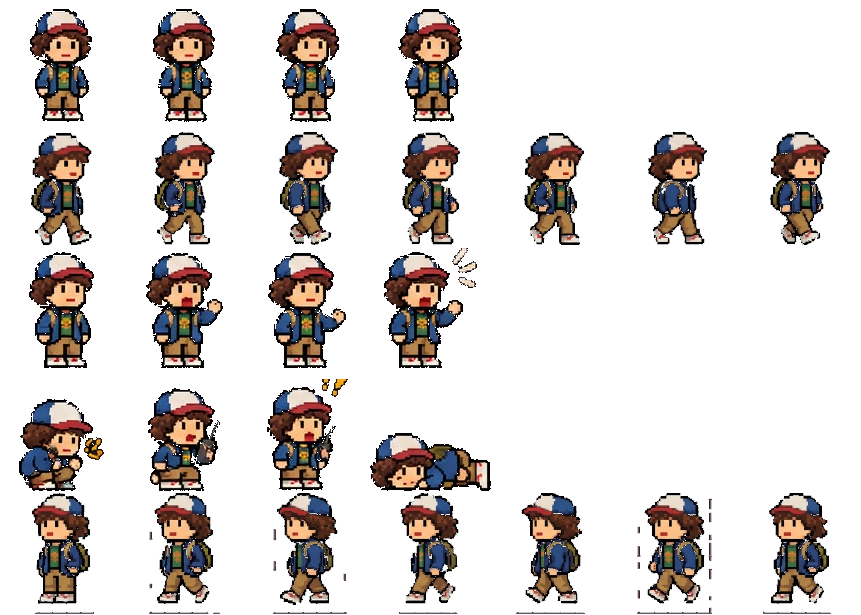
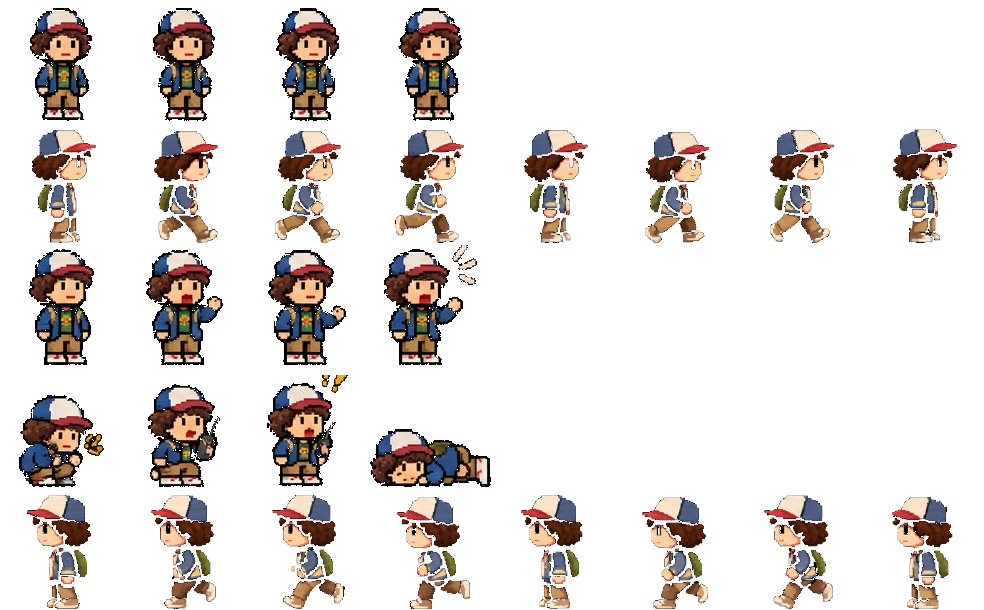
Animaciones de andar nuevas (will1, steve1, mike1, eleven1, dustin1, demo1) y menu sin recuadro negro

diff --git a/js/atlas.js b/js/atlas.js
@@ -10,7 +10,7 @@ window.ATLAS = {
    },
    "walk": {
     "row": 1,
-    "n": 6
+    "n": 8
    },
    "shoot": {
     "row": 2,
@@ -22,7 +22,7 @@ window.ATLAS = {
    },
    "walkL": {
     "row": 4,
-    "n": 6
+    "n": 8
    }
   }
  },
@@ -37,7 +37,7 @@ window.ATLAS = {
    },
    "walk": {
     "row": 1,
-    "n": 6
+    "n": 8
    },
    "attack": {
     "row": 2,
@@ -54,6 +54,10 @@ window.ATLAS = {
    "die": {
     "row": 5,
     "n": 5
+   },
+   "walkL": {
+    "row": 6,
+    "n": 8
    }
   }
  },
@@ -68,7 +72,7 @@ window.ATLAS = {
    },
    "walk": {
     "row": 1,
-    "n": 7
+    "n": 8
    },
    "power": {
     "row": 2,
@@ -80,7 +84,7 @@ window.ATLAS = {
    },
    "walkL": {
     "row": 4,
-    "n": 7
+    "n": 8
    }
   }
  },
@@ -95,7 +99,7 @@ window.ATLAS = {
    },
    "walk": {
     "row": 1,
-    "n": 7
+    "n": 8
    },
    "talk": {
     "row": 2,
@@ -107,14 +111,14 @@ window.ATLAS = {
    },
    "walkL": {
     "row": 4,
-    "n": 7
+    "n": 8
    }
   }
  },
  "dustin": {
   "img": "assets/dustin.png",
   "cw": 123,
-  "ch": 123,
+  "ch": 122,
   "anims": {
    "idle": {
     "row": 0,
@@ -122,7 +126,7 @@ window.ATLAS = {
    },
    "walk": {
     "row": 1,
-    "n": 7
+    "n": 8
    },
    "talk": {
     "row": 2,
@@ -134,7 +138,7 @@ window.ATLAS = {
    },
    "walkL": {
     "row": 4,
-    "n": 7
+    "n": 8
    }
   }
  },
@@ -149,11 +153,11 @@ window.ATLAS = {
    },
    "walk": {
     "row": 1,
-    "n": 6
+    "n": 8
    },
    "run": {
     "row": 2,
-    "n": 6
+    "n": 8
    },
    "attack": {
     "row": 3,
@@ -169,11 +173,11 @@ window.ATLAS = {
    },
    "walkL": {
     "row": 6,
-    "n": 6
+    "n": 8
    },
    "runL": {
     "row": 7,
-    "n": 6
+    "n": 8
    }
   }
  },

diff --git a/js/game.js b/js/game.js
@@ -1150,7 +1150,9 @@ function drawEnemy(e, camX) {
   // sombra
   ctx.fillStyle = 'rgba(0,0,0,.35)'; ctx.beginPath(); ctx.ellipse(x, (e.grounded ? e.y : GROUND) + 2, 30 * e.sc / 1.1, 6, 0, 0, 7); ctx.fill();
   if (!e.grounded) { anim = 'attack'; f = e.vy < 0 ? 1 : 2; }
-  sprite('demogorgon', anim, f, x, e.y, e.sc, flip, blink);
+  // al ir a la izquierda se usa la fila "Walk ←" de la hoja
+  if (flip && ATLAS.demogorgon.anims[anim + 'L']) sprite('demogorgon', anim + 'L', f, x, e.y, e.sc, false, blink);
+  else sprite('demogorgon', anim, f, x, e.y, e.sc, flip, blink);
 }
 
 // Armas de la serie. En reposo van colgadas del cuerpo (se dibujan detrás o encima del sprite, en el punto de cada personaje);
@@ -1494,8 +1496,6 @@ function drawMenuScreen() {
 }
 
 function drawTitleMenu() {
-  const n = menuItems().length;
-  ctx.fillStyle = 'rgba(6,0,10,.55)'; ctx.fillRect(W / 2 - 175, 278, 350, n * 36 + 16); // fondo para que se lea el menú
   menuItems().forEach((it, i) => {
     const y = 305 + i * 36, sel = i === M.idx;
     text((sel ? '> ' : '') + it.label + (sel ? ' <' : ''), W / 2, y, 18, sel ? '#ffd34d' : '#fff', 'center');

diff --git a/sw.js b/sw.js
@@ -1,6 +1,6 @@
 /* Service worker: deja el juego instalable y jugable sin conexión.
  * Estrategia "stale-while-revalidate": sirve de la caché y actualiza en segundo plano. */
-const CACHE = 'stranger-slug-v13';
+const CACHE = 'stranger-slug-v14';
 const ASSETS = [
   './', 'index.html', 'manifest.webmanifest',
   'js/atlas.js', 'js/game.js', 'js/touch.js',

diff --git a/tools/build_assets.py b/tools/build_assets.py
@@ -225,7 +225,7 @@ atlas['will'] = build_char('will', 'will.png', (21, 16, 24), {
     'walk':  ((635, 538, 1450, 690), 6, 'c'),
     'shoot': ((40, 768, 712, 925), 5, ('l', 52)),
     'other': ((735, 764, 1520, 925), 7, 'c'),
-}, idle_h=111, override={'walk': dict(sheet='Gemini_Generated_Image_5lqkgz5lqkgz5lqk.jpeg', bg=(26, 25, 31), box=(60, 88, 1230, 335), left=(40, 495, 1230, 745), n=6)}, blank=[(40, 490, 215, 540), (625, 490, 790, 540), (40, 712, 250, 764), (745, 712, 975, 764)])
+}, idle_h=111, override={'walk': dict(sheet='will1.png', bg=(21, 16, 23), box=(300, 75, 1900, 277), left=(300, 340, 1900, 551), n=8, scrub=False)}, blank=[(40, 490, 215, 540), (625, 490, 790, 540), (40, 712, 250, 764), (745, 712, 975, 764)])
 atlas['demogorgon'] = build_char('demogorgon', 'demogorgon.png', (19, 18, 25), {
     'idle':   ((45, 452, 595, 595), 4, 'c'),
     'walk':   ((622, 452, 1490, 595), 6, 'c'),
@@ -233,7 +233,7 @@ atlas['demogorgon'] = build_char('demogorgon', 'demogorgon.png', (19, 18, 25), {
     'roar':   ((828, 606, 1505, 778), 4, 'c'),
     'hurt':   ((38, 828, 708, 978), 5, 'c'),
     'die':    ((738, 834, 1515, 978), 5, 'c'),
-}, idle_h=92, blank=[(30, 405, 200, 463), (630, 405, 782, 463), (30, 598, 242, 647), (826, 598, 1006, 647), (28, 783, 216, 833), (740, 783, 845, 833)])
+}, idle_h=92, override={'walk': dict(sheet='demo1.png', bg=(19, 13, 16), box=(300, 75, 1900, 277), left=(300, 340, 1900, 551), n=8, scrub=False)}, blank=[(30, 405, 200, 463), (630, 405, 782, 463), (30, 598, 242, 647), (826, 598, 1006, 647), (28, 783, 216, 833), (740, 783, 845, 833)])
 # --- Eleven (WA0025)
 E = 'IMG-20261121-WA0025.jpg'
 atlas['eleven'] = build_char('eleven', E, DARK, {
@@ -241,21 +241,21 @@ atlas['eleven'] = build_char('eleven', E, DARK, {
     'walk':  ((1040, 305, 1510, 430), 4, 'c'),
     'power': ((1040, 460, 1510, 590), 4, 'c'),
     'other': ((1040, 640, 1510, 760), 4, 'c'),
-}, override={'walk': dict(sheet='Gemini_Generated_Image_ohbt8iohbt8iohbt.jpeg', bg=(26, 24, 27), box=(234, 128, 1326, 356), left=(234, 450, 1326, 676), n=8, drop=[7])})
+}, override={'walk': dict(sheet='eleven1.png', bg=(22, 15, 21), box=(300, 75, 1900, 277), left=(300, 340, 1900, 551), n=8, scrub=False)})
 # --- Mike (WA0027)
 atlas['mike'] = build_char('mike', 'IMG-20261121-WA0027.jpg', DARK, {
     'idle':  ((1045, 160, 1510, 285), 4, 'c'),
     'walk':  ((1045, 305, 1510, 430), 4, 'c'),
     'talk':  ((1045, 460, 1510, 590), 4, 'c'),
     'other': ((1045, 640, 1510, 760), 4, 'c'),
-}, override={'walk': dict(sheet='Gemini_Generated_Image_51s8a251s8a251s8.jpeg', bg=(97, 83, 106), box=(215, 108, 1345, 358), left=(215, 430, 1345, 688), n=8, thr=38, scrub=False, drop=[7])})
+}, override={'walk': dict(sheet='mike1.png', bg=(22, 15, 21), box=(300, 75, 1900, 277), left=(300, 340, 1900, 551), n=8, scrub=False, thr=9)})
 # --- Dustin (WA0028)
 atlas['dustin'] = build_char('dustin', 'IMG-20261121-WA0028.jpg', DARK, {
     'idle':  ((1045, 160, 1510, 285), 4, 'c'),
     'walk':  ((1045, 305, 1510, 430), 4, 'c'),
     'talk':  ((1045, 460, 1510, 590), 4, 'c'),
     'other': ((1045, 640, 1510, 760), 4, 'c'),
-}, override={'walk': dict(sheet='Gemini_Generated_Image_w28qzlw28qzlw28q.jpeg', bg=(25, 20, 27), box=(205, 108, 1345, 352), left=(205, 420, 1345, 684), n=8, drop=[7])})
+}, override={'walk': dict(sheet='dustin1.png', bg=(17, 13, 16), box=(300, 75, 1900, 277), left=(300, 340, 1900, 551), n=8, scrub=False)})
 # --- Steve (WA0029)
 S = 'IMG-20261121-WA0029.jpg'
 atlas['steve'] = build_char('steve', S, DARK, {
@@ -265,8 +265,8 @@ atlas['steve'] = build_char('steve', S, DARK, {
     'attack': ((40, 810, 560, 955), 5, ('l', 40)),
     'hurt':   ((595, 825, 985, 955), 4, 'c'),
     'other':  ((1020, 815, 1440, 955), 4, 'c'),
-}, override={'walk': dict(sheet='Gemini_Generated_Image_k77auqk77auqk77a.jpeg', bg=(24, 18, 28), box=(222, 96, 1345, 370), left=(225, 437, 1345, 700), n=7, drop=[6]),
-              'run': dict(sheet='Gemini_Generated_Image_k77auqk77auqk77a.jpeg', bg=(24, 18, 28), box=(222, 96, 1345, 370), left=(225, 437, 1345, 700), n=7, drop=[6])})
+}, override={'walk': dict(sheet='steve1.png', bg=(17, 13, 18), box=(300, 75, 1900, 277), left=(300, 340, 1900, 551), n=8, scrub=False),
+              'run': dict(sheet='steve1.png', bg=(17, 13, 18), box=(300, 75, 1900, 277), left=(300, 340, 1900, 551), n=8, scrub=False)})
 # --- Lucas (lucas1.png: andar; lucas2.png: reposo, tirachinas y otras acciones)
 atlas['lucas'] = build_char('lucas', 'lucas2.png', (22, 16, 24), {
     'idle':  ((60, 535, 530, 685), 4, 'torso'),
